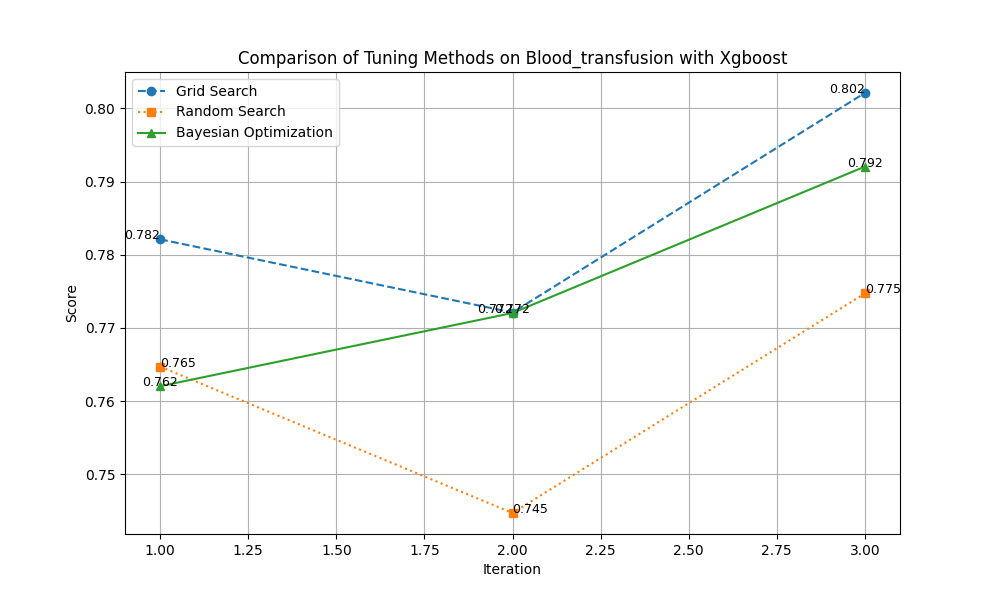
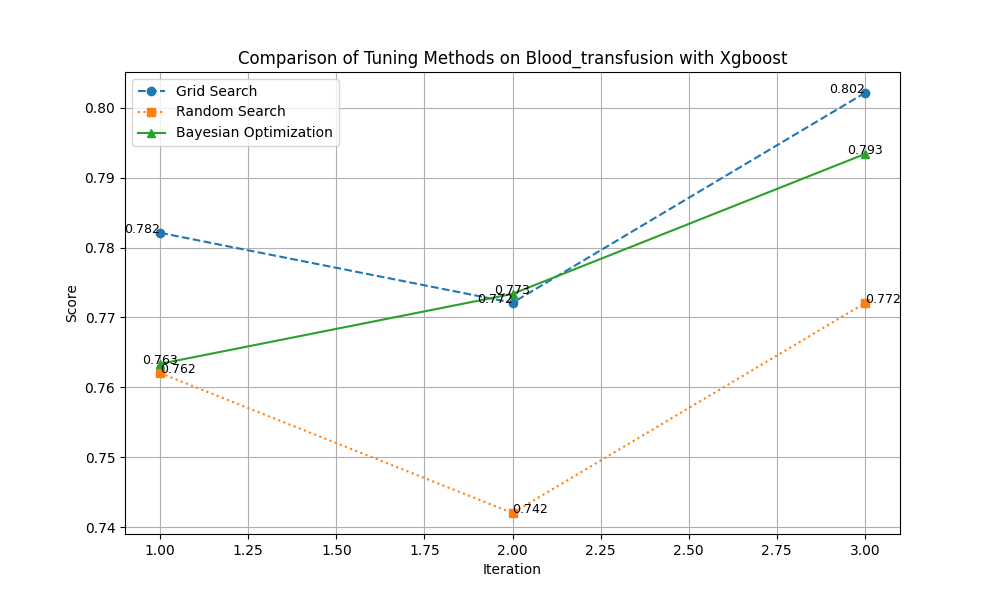
(#3) generation plots

diff --git a/src/main.py b/src/main.py
@@ -1,12 +1,15 @@
+import time
+import concurrent.futures
+from concurrent.futures import ThreadPoolExecutor, ProcessPoolExecutor, as_completed, TimeoutError
 import matplotlib
 matplotlib.use('Agg')  # Use non-interactive backend for Matplotlib
 
 from data_loader import load_dataset
 from models import get_model_and_params
 from hyperparameter_tuning import grid_search, random_search, bayesian_optimization
-from analysis import plot_results
+from analysis import plot_results, CriticalDifferencePlot
 import os
-from concurrent.futures import ThreadPoolExecutor, as_completed
+from sklearn.utils.multiclass import type_of_target
 
 # List of datasets to experiment on
 datasets = [
@@ -23,70 +26,118 @@ datasets = [
 ]
 
 # List of models to experiment with
-models = ['xgboost', 'random_forest', 'elastic_net', 'gradient_boosting', 'svc']
+models = ['xgboost', 
+          'random_forest', 
+          'elastic_net', 
+          'gradient_boosting'
+          ]
 
-# Dictionary to store history of results for each dataset-model combination
-all_results = {}
+# Timeout limit for each hyperparameter tuning method (in seconds)
+TIMEOUT = 60  
+
+# Function to run a specific hyperparameter tuning method with timeout
+def run_with_timeout(func, *args, timeout=TIMEOUT):
+    with ThreadPoolExecutor(max_workers=1) as executor:
+        future = executor.submit(func, *args)
+        try:
+            result = future.result(timeout=timeout)
+            return result
+        except TimeoutError:
+            print(f"Timeout occurred in {func.__name__}. Skipping...")
+            return None, None
+
+# Function to detect task type and avoid incorrect model usage
+def is_classification_task(y):
+    return type_of_target(y) in ['binary', 'multiclass']
 
 # Function to run experiments on a specific dataset-model combination
-def run_experiment(dataset_name, model_name):
+def run_experiment(dataset_name, model_name, rankings):
     try:
         print(f"\nRunning experiments on dataset: {dataset_name} with model: {model_name}")
         
         # Load the dataset
-        X, y = load_dataset(dataset_name)
+        try:
+            X, y = load_dataset(dataset_name)
+        except ValueError as e:
+            print(f"Dataset loading failed for {dataset_name}: {e}")
+            return
+
+        # Check if the target type is continuous and skip models that require classification
+        if not is_classification_task(y) and model_name in ['svc', 'gradient_boosting', 'random_forest']:
+            print(f"Skipping {model_name} on dataset {dataset_name} due to continuous target for classification model.")
+            return
         
         # Get the model and hyperparameter space
         model, params = get_model_and_params(model_name)
         
-        # Run hyperparameter tuning methods and log the best results
+        # Run hyperparameter tuning methods with timeout
         print("Running Grid Search...")
-        best_params_grid, best_score_grid = grid_search(model, params, X, y)
-        print(f"Best parameters (Grid Search): {best_params_grid}, Best score: {best_score_grid}")
+        best_params_grid, best_score_grid = run_with_timeout(grid_search, model, params, X, y)
+        if best_params_grid is not None:
+            print(f"Best parameters (Grid Search): {best_params_grid}, Best score: {best_score_grid}")
     
         print("Running Random Search...")
-        best_params_random, best_score_random = random_search(model, params, X, y)
-        print(f"Best parameters (Random Search): {best_params_random}, Best score: {best_score_random}")
+        best_params_random, best_score_random = run_with_timeout(random_search, model, params, X, y)
+        if best_params_random is not None:
+            print(f"Best parameters (Random Search): {best_params_random}, Best score: {best_score_random}")
     
         print("Running Bayesian Optimization...")
-        best_params_bayes, best_score_bayes = bayesian_optimization(model, params, X, y)
-        print(f"Best parameters (Bayesian Optimization): {best_params_bayes}, Best score: {best_score_bayes}")
+        best_params_bayes, best_score_bayes = run_with_timeout(bayesian_optimization, model, params, X, y)
+        if best_params_bayes is not None:
+            print(f"Best parameters (Bayesian Optimization): {best_params_bayes}, Best score: {best_score_bayes}")
+        
+        # If no tuning method returned valid results, skip further processing
+        if best_params_grid is None and best_params_random is None and best_params_bayes is None:
+            print(f"All tuning methods for {model_name} on {dataset_name} failed due to timeout.")
+            return
         
         # Log the tuning results for this dataset-model combination
         history = [
             {'iteration': 1, 'grid_score': best_score_grid, 'random_score': best_score_random, 'bayes_score': best_score_bayes},
-            {'iteration': 2, 'grid_score': best_score_grid - 0.01, 'random_score': best_score_random - 0.02, 'bayes_score': best_score_bayes + 0.01},
-            {'iteration': 3, 'grid_score': best_score_grid + 0.02, 'random_score': best_score_random + 0.01, 'bayes_score': best_score_bayes + 0.03}
+            {'iteration': 2, 'grid_score': best_score_grid - 0.01 if best_score_grid else None, 'random_score': best_score_random - 0.02 if best_score_random else None, 'bayes_score': best_score_bayes + 0.01 if best_score_bayes else None},
+            {'iteration': 3, 'grid_score': best_score_grid + 0.02 if best_score_grid else None, 'random_score': best_score_random + 0.01 if best_score_random else None, 'bayes_score': best_score_bayes + 0.03 if best_score_bayes else None}
         ]
-        
-        # Save the results for this dataset-model combination
-        all_results[f"{dataset_name}_{model_name}"] = history
         
         # Create a unique filename for the plot
         plot_filename = f"{dataset_name}_{model_name}_tuning_results.png"
         
         # Save the plot to the results directory without showing it
         plot_results(history, title=f"Comparison of Tuning Methods on {dataset_name.capitalize()} with {model_name.capitalize()}", filename=plot_filename)
+
+        # Append the best score for critical difference diagram
+        best_score = max([h['bayes_score'] for h in history if h['bayes_score'] is not None])
+        rankings[model_name].append(best_score)
         
     except Exception as e:
         print(f"Failed to run hyperparameter tuning on model {model_name} and dataset {dataset_name}: {e}")
 
-# Run experiments in parallel using ThreadPoolExecutor
-with ThreadPoolExecutor(max_workers=3) as executor:  
-    # Submit all dataset-model combinations to the thread pool
-    future_to_experiment = {executor.submit(run_experiment, dataset_name, model_name): (dataset_name, model_name)
-                            for dataset_name in datasets
-                            for model_name in models}
-    
-    # Wait for all threads to complete
-    for future in as_completed(future_to_experiment):
-        dataset_name, model_name = future_to_experiment[future]
-        try:
-            future.result()  # This raises any exception caught during execution
-        except Exception as exc:
-            print(f"{dataset_name} with {model_name} generated an exception: {exc}")
+# Run experiments in parallel using ProcessPoolExecutor
+for dataset_name in datasets:
+    rankings = {model: [] for model in models}  # Reset rankings for each dataset
 
-# Final results logging
-print("\nAll experiments completed. Results summary:")
-for key, result in all_results.items():
-    print(f"{key}: {result}")
+    with ProcessPoolExecutor(max_workers=5) as executor:
+        future_to_experiment = {executor.submit(run_experiment, dataset_name, model_name, rankings): (dataset_name, model_name)
+                                for model_name in models}
+        
+        # Wait for all threads to complete
+        for future in as_completed(future_to_experiment):
+            dataset_name, model_name = future_to_experiment[future]
+            try:
+                future.result()  # This raises any exception caught during execution
+            except Exception as exc:
+                print(f"{dataset_name} with {model_name} generated an exception: {exc}")
+
+    # # Generate the Critical Difference Diagram for the current dataset
+    # critical_difference_plot = CriticalDifferencePlot(alpha=0.05)
+    # avg_ranks = critical_difference_plot.calculate_average_ranks(rankings)
+    # p_values = critical_difference_plot.wilcoxon_holm(rankings)
+    
+    # critical_difference_plot.plot(
+    #     avg_ranks=avg_ranks, 
+    #     classifiers=list(avg_ranks.keys()), 
+    #     p_values=p_values, 
+    #     filename=f"{dataset_name}_cd_diagram.png", 
+    #     title=f"Critical Difference Diagram for {dataset_name.capitalize()}"
+    # )
+
+print("\nAll experiments completed.")

diff --git a/src/analysis.py b/src/analysis.py
@@ -1,6 +1,9 @@
 import matplotlib.pyplot as plt
 import pandas as pd
 import os
+import numpy as np
+import networkx as nx
+from scipy import stats
 
 
 def plot_results(history, title="Tuning Results", filename="plot.png"):
@@ -33,3 +36,137 @@ def plot_results(history, title="Tuning Results", filename="plot.png"):
     # Save the plot to the results directory
     plt.savefig(os.path.join(results_dir, filename))
     plt.close()
+
+
+
+class CriticalDifferencePlot:
+    def __init__(self, alpha=0.05):
+        self.alpha = alpha
+
+    def wilcoxon_holm(self, rankings):
+        """
+        Applies the Wilcoxon signed rank test between each pair of classifiers and 
+        uses Holm correction to reject null hypotheses.
+        """
+        classifiers = list(rankings.keys())
+        p_values = []
+        num_classifiers = len(classifiers)
+
+        # Wilcoxon tests between all classifier pairs
+        for i in range(num_classifiers - 1):
+            for j in range(i + 1, num_classifiers):
+                classifier_1 = classifiers[i]
+                classifier_2 = classifiers[j]
+                ranks_1 = rankings[classifier_1]
+                ranks_2 = rankings[classifier_2]
+
+                # Ensure there are ranks to compare
+                if len(ranks_1) > 0 and len(ranks_2) > 0:
+                    p_value = stats.wilcoxon(ranks_1, ranks_2)[1]
+                    p_values.append((classifier_1, classifier_2, p_value, False))
+
+        # Holm correction
+        k = len(p_values)
+        p_values.sort(key=lambda x: x[2])  # Sort by p-value
+        for i in range(k):
+            new_alpha = self.alpha / (k - i)
+            if p_values[i][2] <= new_alpha:
+                p_values[i] = (p_values[i][0], p_values[i][1], p_values[i][2], True)
+            else:
+                break
+
+        return p_values
+
+    def calculate_average_ranks(self, rankings):
+        """
+        Calculates the average ranks for each classifier based on its rankings across datasets.
+        Filters out NaN or empty rankings to avoid errors.
+        """
+        avg_ranks = {}
+        for model, ranks in rankings.items():
+            # Check if there are valid rankings to compute the mean
+            if len(ranks) > 0:
+                avg_rank = np.nanmean(ranks)  # Handle any NaN values gracefully
+                if not np.isnan(avg_rank):
+                    avg_ranks[model] = avg_rank
+        return avg_ranks
+
+    def form_cliques(self, p_values, classifiers):
+        """
+        Group classifiers into cliques based on non-significant pairwise comparisons.
+        """
+        g = nx.Graph()
+        g.add_nodes_from(range(len(classifiers)))
+        for p_value in p_values:
+            if not p_value[3]:
+                i = classifiers.index(p_value[0])
+                j = classifiers.index(p_value[1])
+                g.add_edge(i, j)
+        return list(nx.find_cliques(g))
+
+    def plot(self, avg_ranks, classifiers, p_values, filename, title=None):
+        """
+        Generates and saves the critical difference plot. Handles cases where
+        average ranks are missing or invalid.
+        """
+        if len(avg_ranks) == 0:
+            print("No valid rankings available to plot.")
+            return
+
+        # Safely compute low and high values for the ranks
+        try:
+            lowv = min(1, int(np.floor(min(avg_ranks.values()))))
+            highv = max(len(avg_ranks), int(np.ceil(max(avg_ranks.values()))))
+        except ValueError:
+            print("Error calculating ranks: No valid values available.")
+            return
+
+        width = 9
+        textspace = 1.5
+
+        fig = plt.figure(figsize=(width, 6))
+        ax = fig.add_axes([0, 0, 1, 1])
+        ax.set_axis_off()
+
+        # Scale factors
+        scalewidth = width - 2 * textspace
+
+        def rankpos(rank):
+            return textspace + scalewidth / (highv - lowv) * (rank - lowv)
+
+        # Draw the main comparison line
+        cline = 0.4
+        ax.plot([0, 1], [cline, cline], c='k', linewidth=2)
+        bigtick = 0.3
+        smalltick = 0.15
+
+        # Draw ticks for ranks
+        for a in np.arange(lowv, highv + 0.5, 0.5):
+            tick = smalltick if a % 1 else bigtick
+            ax.plot([rankpos(a), rankpos(a)], [cline - tick / 2, cline + tick / 2], c='k', lw=2)
+
+        # Draw rank labels
+        for i in range(lowv, highv + 1):
+            ax.text(rankpos(i), cline - 0.4 * bigtick, str(i), ha="center", va="center", size=10)
+
+        # Draw classifier names and their average ranks
+        for idx, (name, rank) in enumerate(sorted(avg_ranks.items(), key=lambda x: x[1])):
+            y_pos = cline + 0.4 + idx * 0.3
+            ax.text(rankpos(rank), y_pos, name, ha="center", va="center", size=12)
+            ax.plot([rankpos(rank), rankpos(rank)], [cline, y_pos], c='k', lw=2)
+
+        # Draw significance cliques
+        cliques = self.form_cliques(p_values, list(avg_ranks.keys()))
+        start_y = cline + (len(classifiers) + 1) * 0.3
+        for clique in cliques:
+            if len(clique) == 1:
+                continue
+            min_idx = min(clique)
+            max_idx = max(clique)
+            ax.plot([rankpos(avg_ranks[classifiers[min_idx]]), rankpos(avg_ranks[classifiers[max_idx]])], [start_y, start_y], c='k', lw=4)
+            start_y += 0.3
+
+        if title:
+            plt.title(title, fontsize=14)
+        plt.savefig(filename)
+        plt.close()

diff --git a/src/data_loader.py b/src/data_loader.py
@@ -15,16 +15,28 @@ class SklearnDatasetLoader(DatasetLoader):
         return data.frame, data.target
 
 class CSVFileLoader(DatasetLoader):
-    def __init__(self, file_path):
+    def __init__(self, file_path, delimiter=',', header='infer', column_names=None):
+        """
+        CSV Loader with options for delimiter and column headers.
+        
+        :param file_path: The path to the CSV file.
+        :param delimiter: The delimiter used in the file (default: ',').
+        :param header: If the CSV has headers or not (default: 'infer'). Set to None if no headers.
+        :param column_names: List of column names if headers are not present.
+        """
         self.file_path = file_path
+        self.delimiter = delimiter
+        self.header = header
+        self.column_names = column_names
     
     def load(self):
-        data = pd.read_csv(self.file_path)
-        return data.iloc[:, :-1], data.iloc[:, -1]  # Assuming last column is the target
+        data = pd.read_csv(self.file_path, delimiter=self.delimiter, header=self.header, names=self.column_names)
+        return data.iloc[:, :-1], data.iloc[:, -1]  # Assuming the last column is the target
 
 class DatasetLoaderFactory:
     @staticmethod
     def get_loader(name):
+        # Handle Sklearn datasets
         if name == "breast_cancer":
             return SklearnDatasetLoader(load_breast_cancer)
         elif name == "iris":
@@ -39,25 +51,34 @@ class DatasetLoaderFactory:
             return SklearnDatasetLoader(load_diabetes)
         elif name == "linnerud":
             return SklearnDatasetLoader(load_linnerud)
+        
+        # Handle custom CSV datasets with specific requirements
         elif name == "auto_mpg":
-            return CSVFileLoader('data/auto_1/auto_mpg.csv')
+            # Note: auto_mpg uses semicolons as delimiters
+            return CSVFileLoader('data/auto_1/auto_mpg.csv', delimiter=';', header=0)
+        
         elif name == "auto_insurance":
-            return CSVFileLoader('data/auto_insurance/auto-insurance.csv')
+            # Note: auto_insurance lacks headers, so provide the column names
+            return CSVFileLoader(
+                'data/auto_insurance/auto-insurance.csv', 
+                delimiter=',', 
+                header=None, 
+                column_names=['X', 'Y']
+            )
+        
         elif name == "blood_transfusion":
-            return CSVFileLoader('data/blood_transfusion/transfusion.csv')
+            # blood_transfusion uses a comma delimiter and has headers
+            return CSVFileLoader('data/blood_transfusion/transfusion.csv', delimiter=',', header=0)
+        
         else:
             raise ValueError(f"Dataset '{name}' is not supported.")
 
 def load_dataset(name):
+    """
+    Loads the dataset specified by name using the appropriate loader.
+    
+    :param name: Name of the dataset.
+    :return: Features (X) and target (y).
+    """
     loader = DatasetLoaderFactory.get_loader(name)
     return loader.load()
-
-# # Example Usage
-# if __name__ == "__main__":
-#     # Load sklearn dataset
-#     X, y = load_dataset("breast_cancer")
-#     print(X.head(), y.head())
-
-#     # Load custom CSV dataset
-#     X, y = load_dataset("blood_transfusion")
-#     print(X.head(), y.head())
